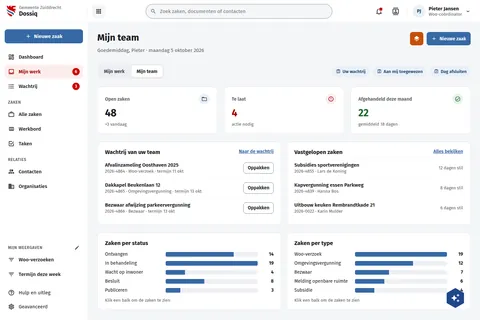
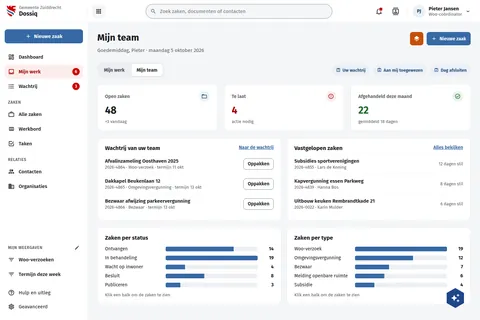
fix(screens): DqMijnWerk and DqMijnTeam space their sections 20px like every Dq board
68 of the 70 Dq boards space the main column's sections 20px; these two
drew 24, so their toolbar and cards sat 7.5px under live (r32).

Assisted-by: ClaudeCode:claude-opus-5-5

diff --git a/screens-src/zuiddrecht/DqMijnWerk.dc.html b/screens-src/zuiddrecht/DqMijnWerk.dc.html
@@ -19,7 +19,7 @@ a{color:#3669a5}a:hover{color:#234a78}
   <div style="display: flex; flex-wrap: wrap; flex: 1 1 auto">
     <div style="flex: 0 0 264px; width: 264px; display: flex; align-items: stretch"><dc-import name="DqZijbalk" style="display: block; width: 100%; min-height: 100%; flex: 1 1 auto" active="Mijn werk" hint-size="264px,1563px"></dc-import></div>
     <div style="flex: 999 1 560px; min-width: 0; display: flex; flex-direction: column">
-      <main style="padding: 24px 28px; display: flex; flex-direction: column; gap: 24px; max-width: 1240px; box-sizing: border-box; width: 100%">
+      <main style="padding: 24px 28px; display: flex; flex-direction: column; gap: 20px; max-width: 1240px; box-sizing: border-box; width: 100%">
 
         <section style="display: flex; flex-direction: column; gap: 6px; padding: 4px 0 8px">
           <div style="display: flex; flex-wrap: wrap; justify-content: space-between; align-items: flex-start; gap: 12px 24px">

diff --git a/screens-src/zuiddrecht/DqMijnTeam.dc.html b/screens-src/zuiddrecht/DqMijnTeam.dc.html
@@ -19,7 +19,7 @@ a{color:#3669a5}a:hover{color:#234a78}
   <div style="display: flex; flex-wrap: wrap; flex: 1 1 auto">
     <div style="flex: 0 0 264px; width: 264px; display: flex; align-items: stretch"><dc-import name="DqZijbalk" style="display: block; width: 100%; min-height: 100%; flex: 1 1 auto" active="Mijn werk" hint-size="264px,892px"></dc-import></div>
     <div style="flex: 999 1 560px; min-width: 0; display: flex; flex-direction: column">
-      <main style="padding: 24px 28px; display: flex; flex-direction: column; gap: 24px; max-width: 1240px; box-sizing: border-box; width: 100%">
+      <main style="padding: 24px 28px; display: flex; flex-direction: column; gap: 20px; max-width: 1240px; box-sizing: border-box; width: 100%">
 
         <section style="display: flex; flex-direction: column; gap: 6px; padding: 4px 0 8px">
           <div style="display: flex; flex-wrap: wrap; justify-content: space-between; align-items: flex-start; gap: 12px 24px">

diff --git a/preview/screens/boards/DqMijnTeam.html b/preview/screens/boards/DqMijnTeam.html
@@ -137,7 +137,7 @@ a{color:var(--sc-primary, #3669a5)}a:hover{color:var(--sc-primary-deep, #234a78)
 </nav>
 </div>
     <div style="flex: 999 1 560px; min-width: 0; display: flex; flex-direction: column">
-      <main style="padding: 24px 28px; display: flex; flex-direction: column; gap: 24px; max-width: 1240px; box-sizing: border-box; width: 100%">
+      <main style="padding: 24px 28px; display: flex; flex-direction: column; gap: 20px; max-width: 1240px; box-sizing: border-box; width: 100%">
 
         <section style="display: flex; flex-direction: column; gap: 6px; padding: 4px 0 8px">
           <div style="display: flex; flex-wrap: wrap; justify-content: space-between; align-items: flex-start; gap: 12px 24px">

diff --git a/preview/screens/boards/DqMijnWerk.html b/preview/screens/boards/DqMijnWerk.html
@@ -137,7 +137,7 @@ a{color:var(--sc-primary, #3669a5)}a:hover{color:var(--sc-primary-deep, #234a78)
 </nav>
 </div>
     <div style="flex: 999 1 560px; min-width: 0; display: flex; flex-direction: column">
-      <main style="padding: 24px 28px; display: flex; flex-direction: column; gap: 24px; max-width: 1240px; box-sizing: border-box; width: 100%">
+      <main style="padding: 24px 28px; display: flex; flex-direction: column; gap: 20px; max-width: 1240px; box-sizing: border-box; width: 100%">
 
         <section style="display: flex; flex-direction: column; gap: 6px; padding: 4px 0 8px">
           <div style="display: flex; flex-wrap: wrap; justify-content: space-between; align-items: flex-start; gap: 12px 24px">
